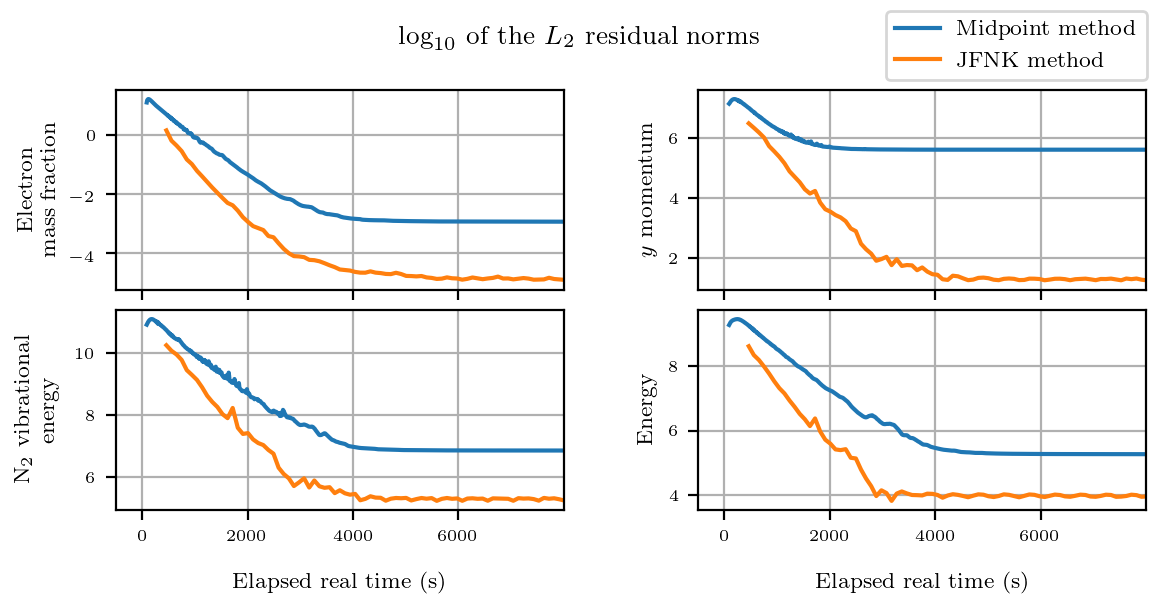
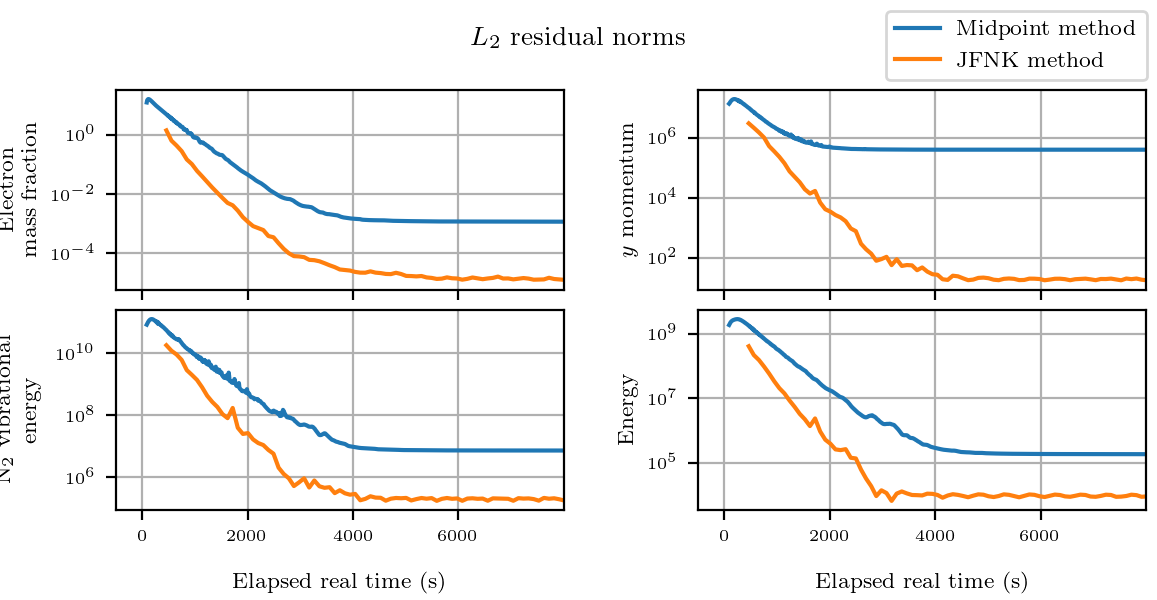
Plotting residuals not as log10 but on semilogy

diff --git a/figures/figures_matplotlib.py b/figures/figures_matplotlib.py
@@ -526,7 +526,7 @@ def rae_coefficients():
 def rae_residuals():
     with plt.rc_context({'font.size': 8, 'xtick.labelsize': 6, 'ytick.labelsize': 6}):
         fig = plt.figure(figsize=[5.78851, 3])
-        fig.suptitle(r"$\log_{10}$ of the $L_2$ residual norms", y=0.95)
+        fig.suptitle(r"$L_2$ residual norms", y=0.95)
 
         ax11 = fig.add_subplot(221)
         ax12 = fig.add_subplot(222)
@@ -538,9 +538,12 @@ def rae_residuals():
                                   ("$x$ momentum", "$y$ momentum", "Energy", "Turbulent viscosity")):
             ax.grid(True)
             plotter = bibarch.HistoPlotter(ax, ('RESIDUS', 'MOYENS', tag), 'ITER', "/scratchm/pseize/RAE_2822")
-            plotter.plot('BASE/INIT', 'k', label='Initialisation')
-            plotter.plot('BASE/RUN_1', label='Traditional method')
-            plotter.plot('MF/RUN_1', label='JFNK method')
+            x, y, _ = plotter.get('BASE/INIT')
+            ax.semilogy(x, np.power(10, y), 'k', label='Initialisation')
+            x, y, _ = plotter.get('BASE/RUN_1')
+            ax.semilogy(x, np.power(10, y), label='Traditional method')
+            x, y, _ = plotter.get('MF/RUN_1')
+            ax.semilogy(x, np.power(10, y), label='JFNK method')
             ax.set_title('')
             ax.set_ylabel(title)
 
@@ -563,7 +566,7 @@ def fig_rae_residuals_fine():
     with plt.rc_context({'font.size': 8, 'xtick.labelsize': 6, 'ytick.labelsize': 6}):
         for label, tag0, name in (('$L_2$', 'MOYENS', 'l2'), (r'$L_\infty$', 'MAXIMA', 'linf')):
             fig = plt.figure(figsize=[5.78851, 3])
-            fig.suptitle(r"$\log_{{10}}$ of the {0} residual norms".format(label), y=0.95)
+            fig.suptitle(r"{0} residual norms".format(label), y=0.95)
 
             ax11 = fig.add_subplot(221)
             ax12 = fig.add_subplot(222)
@@ -576,9 +579,12 @@ def fig_rae_residuals_fine():
                 ax.grid(True)
                 plotter = bibarch.HistoPlotter(ax, ('RESIDUS', tag0, tag), 'ITER', "/tmp_user/sator/pseize/RAE_2822",
                                                plot_restarts=False)
-                plotter.plot(['BASE/RUN_0', 'BASE/RUN_1'], 'k', label='Initialisation')
-                plotter.plot(['BASE/RUN_2_1e-4', 'BASE/RUN_3_1e-4'], label='Traditional method')
-                plotter.plot(['MF/RUN_{0}'.format(i) for i in range(9)], label='JFNK method')
+                x, y, _ = plotter.get(['BASE/RUN_0', 'BASE/RUN_1'])
+                ax.semilogy(x, np.power(10, y), 'k', label='Initialisation')
+                x, y, _ = plotter.get(['BASE/RUN_2_1e-4', 'BASE/RUN_3_1e-4'])
+                ax.semilogy(x, np.power(10, y), label='Traditional method')
+                x, y, _ = plotter.get(['MF/RUN_{0}'.format(i) for i in range(9)])
+                ax.semilogy(x, np.power(10, y), label='JFNK method')
                 ax.set_title('')
                 ax.set_ylabel(title)
 
@@ -602,7 +608,7 @@ def fig_rae_residuals_fine():
 def sphere_mte_residuals():
     with plt.rc_context({'font.size': 8, 'xtick.labelsize': 6, 'ytick.labelsize': 6}):
         fig = plt.figure(figsize=[5.78851, 3])
-        fig.suptitle(r"$\log_{10}$ of the $L_2$ residual norms", y=0.95)
+        fig.suptitle(r"$L_2$ residual norms", y=0.95)
 
         ax11 = fig.add_subplot(221)
         ax12 = fig.add_subplot(222)
@@ -615,11 +621,12 @@ def sphere_mte_residuals():
                                    "$\\operatorname{N}_2$ vibrational\nenergy", "Energy")):
             ax.grid(True)
             p = bibarch.HistoPlotter(ax, ('RESIDUS', 'MOYENS', tag), 'WALL', '/tmp_user/sator/pseize/SPHERE_LOBB_MTE')
-            # p.plot(['INIT/RUN_1', 'INIT/RUN_2'], 'k', label='Initialisation')
             p.reset_offset('INIT/RUN_1')
-            p.plot('RK2/RUN_1', label='Midpoint method')
+            x, y, _ = p.get('RK2/RUN_1')
+            ax.semilogy(x, np.power(10, y), label='Midpoint method')
             p.reset_offset(['INIT/RUN_1', 'INIT/RUN_2'])
-            p.plot('MF/RUN_1', label='JFNK method')
+            x, y, _ = p.get('MF/RUN_1')
+            ax.semilogy(x, np.power(10, y),label='JFNK method')
             ax.set_title('')
             ax.set_ylabel(title)
             ax.set_xlim(-500, 7999)
